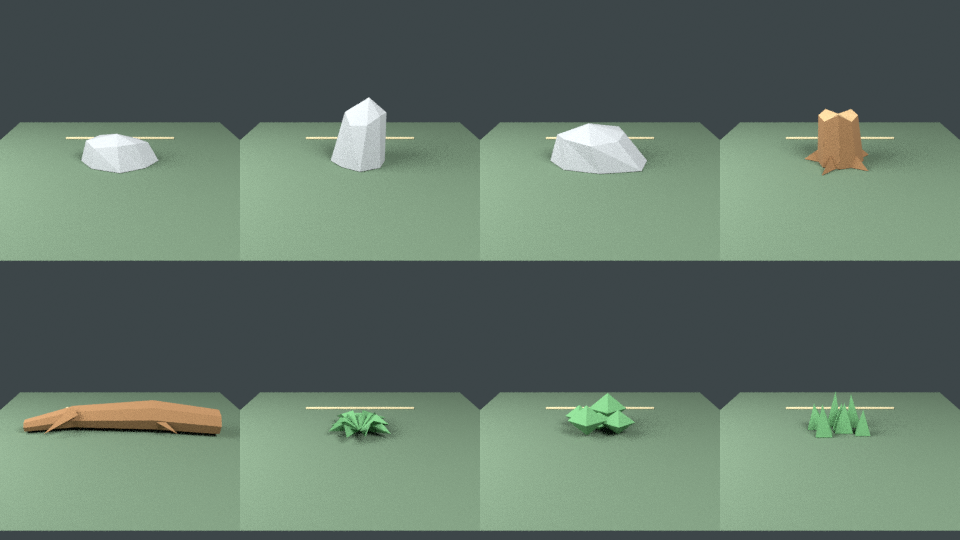
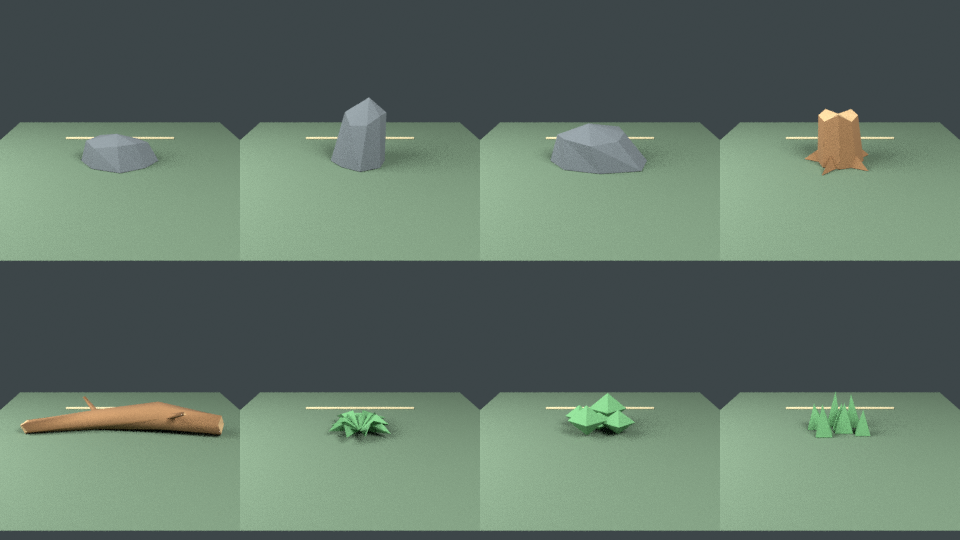
Refine forest floor deadwood and granite

diff --git a/contrib/workout-game-assets/blender/generate_forest_floor_props.py b/contrib/workout-game-assets/blender/generate_forest_floor_props.py
@@ -60,6 +60,9 @@ MAXIMUM_WIDTH_METERS = 2.20
 MAXIMUM_DEPTH_METERS = 0.80
 MAXIMUM_HEIGHT_METERS = 0.70
 DEADWOOD_MAXIMUM_HEIGHT_METERS = 0.34
+DEADWOOD_CROSS_SECTION_SIDES = 7
+DEADWOOD_BRANCH_STUB_COUNT = 2
+GRANITE_BASE_COLOR = (0.12, 0.14, 0.15, 1.0)
 EPSILON = 1.0e-7
 
 
@@ -166,27 +169,91 @@ def rooted_stump():
     return vertices, faces, material_indices
 
 
+def tapered_branch_stub(
+    vertices, faces, material_indices, start, end, base_radius, phase
+):
+    direction = tuple(end[axis] - start[axis] for axis in range(3))
+    length = math.sqrt(sum(component * component for component in direction))
+    axis = tuple(component / length for component in direction)
+    reference = (0.0, 1.0, 0.0)
+    first = (
+        axis[1] * reference[2] - axis[2] * reference[1],
+        axis[2] * reference[0] - axis[0] * reference[2],
+        axis[0] * reference[1] - axis[1] * reference[0],
+    )
+    first_length = math.sqrt(sum(component * component for component in first))
+    first = tuple(component / first_length for component in first)
+    second = (
+        axis[1] * first[2] - axis[2] * first[1],
+        axis[2] * first[0] - axis[0] * first[2],
+        axis[0] * first[1] - axis[1] * first[0],
+    )
+
+    base = len(vertices)
+    for center, radius, angle_offset in (
+        (start, base_radius, phase),
+        (end, base_radius * 0.48, phase + 0.31),
+    ):
+        for side in range(3):
+            angle = angle_offset + 2.0 * math.pi * side / 3.0
+            uneven = 1.0 + 0.10 * math.sin(phase * 2.3 + side * 1.7)
+            vertices.append(tuple(
+                center[axis_index] + radius * uneven * (
+                    math.cos(angle) * first[axis_index]
+                    + math.sin(angle) * second[axis_index]
+                )
+                for axis_index in range(3)
+            ))
+    for side in range(3):
+        following = (side + 1) % 3
+        add_face(faces, material_indices,
+                 (base + side, base + 3 + side, base + 3 + following), 0)
+        add_face(faces, material_indices,
+                 (base + side, base + 3 + following, base + following), 0)
+    add_face(faces, material_indices, (base, base + 2, base + 1), 0)
+    add_face(faces, material_indices, (base + 3, base + 4, base + 5), 1)
+
+
 def fallen_deadwood():
     vertices = []
     faces = []
     material_indices = []
-    sides = 8
+    sides = DEADWOOD_CROSS_SECTION_SIDES
     rings = (
-        (-0.98, 0.130, -0.090, 0.130),
-        (-0.34, 0.160, 0.035, 0.160),
-        (0.48, 0.130, 0.065, 0.120),
-        (0.97, 0.070, -0.040, 0.065),
+        (-0.97, 0.105, -0.090, 0.105, 0.125, -0.18),
+        (-0.40, 0.145, 0.025, 0.142, 0.145, 0.05),
+        (0.25, 0.105, 0.082, 0.103, 0.120, 0.32),
+        (0.94, 0.075, -0.045, 0.072, 0.083, 0.51),
+    )
+    broken_offsets = (
+        (-0.050, 0.018, -0.022, 0.040, -0.032, 0.011, -0.015),
+        (0.031, -0.043, 0.014, -0.020, 0.048, -0.009, 0.022),
     )
     starts = []
-    for x_value, center_y, center_z, radius in rings:
+    for ring_index, (
+        x_value, center_y, center_z, radius_y, radius_z, twist
+    ) in enumerate(rings):
         starts.append(len(vertices))
+        ring_vertices = []
         for side in range(sides):
-            angle = 2.0 * math.pi * side / sides
-            vertices.append((
-                x_value,
-                center_y + radius * math.sin(angle),
-                center_z + radius * math.cos(angle),
+            angle = 2.0 * math.pi * side / sides - math.pi / 2.0 + twist
+            radial_y = 1.0 + 0.065 * math.sin(ring_index * 1.7 + side * 2.1)
+            radial_z = 1.0 + 0.080 * math.cos(ring_index * 1.3 + side * 1.9)
+            x_offset = 0.009 * math.sin(ring_index * 1.4 + side * 1.6)
+            if ring_index == 0:
+                x_offset += broken_offsets[0][side]
+            elif ring_index == len(rings) - 1:
+                x_offset += broken_offsets[1][side]
+            ring_vertices.append((
+                x_value + x_offset,
+                center_y + radius_y * radial_y * math.sin(angle),
+                center_z + radius_z * radial_z * math.cos(angle),
             ))
+        ring_ground = min(vertex[1] for vertex in ring_vertices)
+        vertices.extend(
+            (vertex[0], vertex[1] - ring_ground, vertex[2])
+            for vertex in ring_vertices
+        )
     for first, second in zip(starts, starts[1:]):
         for side in range(sides):
             following = (side + 1) % sides
@@ -194,8 +261,10 @@ def fallen_deadwood():
                      (first + side, second + side, second + following), 0)
             add_face(faces, material_indices,
                      (first + side, second + following, first + following), 0)
-    for ring_index, center in ((0, (-0.98, 0.130, -0.090)),
-                               (3, (0.97, 0.070, -0.040))):
+    for ring_index, center in (
+        (0, (-1.045, 0.105, -0.090)),
+        (3, (1.025, 0.075, -0.045)),
+    ):
         center_index = len(vertices)
         vertices.append(center)
         start = starts[ring_index]
@@ -206,17 +275,18 @@ def fallen_deadwood():
                 order = (center_index, start + following, start + side)
             add_face(faces, material_indices, order, 1)
 
-    for base_x, direction in ((-0.30, -1.0), (0.48, 1.0)):
-        base = len(vertices)
-        vertices.extend((
-            (base_x - 0.06, 0.20, -0.08),
-            (base_x + 0.06, 0.19, -0.06),
-            (base_x, 0.28, -0.02),
-            (base_x + direction * 0.26, 0.055, -0.22),
-        ))
-        for indices in ((0, 1, 2), (0, 3, 1), (1, 3, 2), (2, 3, 0)):
-            add_face(faces, material_indices,
-                     tuple(base + index for index in indices), 0)
+    branches = (
+        ((-0.48, 0.175, -0.075), (-0.60, 0.285, -0.285), 0.040, 0.20),
+        ((0.24, 0.145, 0.105), (0.40, 0.275, 0.300), 0.038, 0.95),
+    )
+    for branch in branches:
+        tapered_branch_stub(vertices, faces, material_indices, *branch)
+
+    ground_offset = min(vertex[1] for vertex in vertices)
+    vertices = [
+        (vertex[0], vertex[1] - ground_offset, vertex[2])
+        for vertex in vertices
+    ]
     return vertices, faces, material_indices
 
 
@@ -341,7 +411,9 @@ def create_mesh(root, name, geometry, materials, material_slots, properties):
     assign_uv0(mesh)
     for polygon, material_index in zip(mesh.polygons, material_indices):
         polygon.material_index = material_index
-        polygon.use_smooth = False
+        polygon.use_smooth = (
+            name == "GEO_DeadwoodFallen_LOD0" and material_index == 0
+        )
     result = bpy.data.objects.new(name=name, object_data=mesh)
     bpy.context.collection.objects.link(result)
     result.parent = root
@@ -374,7 +446,7 @@ def build_scene():
 
     materials = {
         MATERIAL_NAMES[0]: make_material(MATERIAL_NAMES[0],
-                                         (0.34, 0.36, 0.37, 1.0)),
+                                         GRANITE_BASE_COLOR),
         MATERIAL_NAMES[1]: make_material(MATERIAL_NAMES[1],
                                          (0.25, 0.14, 0.065, 1.0)),
         MATERIAL_NAMES[2]: make_material(MATERIAL_NAMES[2],
@@ -398,6 +470,8 @@ def build_scene():
         VARIANT_NAMES[4]: (fallen_deadwood(),
                            (MATERIAL_NAMES[1], MATERIAL_NAMES[2]),
                            {"silhouette": "crooked-tapered-deadwood",
+                            "cross_section_sides": DEADWOOD_CROSS_SECTION_SIDES,
+                            "branch_stub_count": DEADWOOD_BRANCH_STUB_COUNT,
                             "placement_role": "scenery-only",
                             "collision_role": "none",
                             "feature_role": "none"}),
@@ -494,6 +568,24 @@ def self_check(root):
     deadwood_bounds = canonical_bounds(objects["GEO_DeadwoodFallen_LOD0"])
     if deadwood_bounds[1][1] > DEADWOOD_MAXIMUM_HEIGHT_METERS + EPSILON:
         raise RuntimeError("Decorative deadwood exceeds non-feature height")
+    deadwood = objects["GEO_DeadwoodFallen_LOD0"]
+    if len(deadwood.data.vertices) != 42:
+        raise RuntimeError("Decorative deadwood structure changed")
+    deadwood_material_counts = [
+        sum(polygon.material_index == index for polygon in deadwood.data.polygons)
+        for index in range(2)
+    ]
+    if deadwood_material_counts != [56, 16]:
+        raise RuntimeError("Decorative deadwood material topology changed")
+    if deadwood.get("cross_section_sides") not in {6, 7, 8} \
+            or deadwood.get("branch_stub_count") != 2:
+        raise RuntimeError("Decorative deadwood organic silhouette changed")
+    granite = bpy.data.materials[MATERIAL_NAMES[0]].diffuse_color
+    granite_luminance = (
+        0.2126 * granite[0] + 0.7152 * granite[1] + 0.0722 * granite[2]
+    )
+    if not 0.10 <= granite_luminance <= 0.18 or granite[2] - granite[0] < 0.02:
+        raise RuntimeError("Granite is outside the cool mid-grey contract")
     if len({material.name for material in bpy.data.materials}) != 4:
         raise RuntimeError("Forest-floor shared material inventory changed")
     if total_triangles > MAXIMUM_TRIANGLES:

diff --git a/unittests/Build/workoutGameAssets/testWorkoutGameAssets.py b/unittests/Build/workoutGameAssets/testWorkoutGameAssets.py
@@ -109,6 +109,43 @@ def sha256(path: Path) -> str:
     return hashlib.sha256(path.read_bytes()).hexdigest()
 
 
+def glb_accessor_values(path: Path, document: dict, accessor_index: int) -> list:
+    """Decode the uncompressed scalar/vector accessors used by authored GLBs."""
+    data = path.read_bytes()
+    offset = 12
+    binary = None
+    while offset < len(data):
+        chunk_length, chunk_type = struct.unpack_from("<II", data, offset)
+        offset += 8
+        chunk = data[offset:offset + chunk_length]
+        offset += chunk_length
+        if chunk_type == assets.GLB_BINARY_CHUNK:
+            binary = chunk
+    if binary is None:
+        raise AssertionError("GLB has no binary payload")
+
+    accessor = document["accessors"][accessor_index]
+    view = document["bufferViews"][accessor["bufferView"]]
+    component_formats = {
+        5120: "b", 5121: "B", 5122: "h", 5123: "H",
+        5125: "I", 5126: "f",
+    }
+    component_counts = {
+        "SCALAR": 1, "VEC2": 2, "VEC3": 3, "VEC4": 4,
+    }
+    component_count = component_counts[accessor["type"]]
+    value_format = "<" + (
+        component_formats[accessor["componentType"]] * component_count
+    )
+    value_size = struct.calcsize(value_format)
+    stride = view.get("byteStride", value_size)
+    start = view.get("byteOffset", 0) + accessor.get("byteOffset", 0)
+    return [
+        struct.unpack_from(value_format, binary, start + index * stride)
+        for index in range(accessor["count"])
+    ]
+
+
 class AssetFixture:
     def __init__(self) -> None:
         self.temporary = tempfile.TemporaryDirectory(prefix="gc-workout-assets-")
@@ -541,6 +578,66 @@ class TestWorkoutGameAssets(unittest.TestCase):
         self.assertNotIn(
             "runtime", {entry["purpose"] for entry in manifest["files"]}
         )
+
+    def test_forest_floor_deadwood_is_an_irregular_branched_log(self) -> None:
+        document, _ = assets.read_glb(FOREST_FLOOR_GLB_PATH)
+        nodes = {node["name"]: node for node in document["nodes"]}
+        node = nodes["GEO_DeadwoodFallen_LOD0"]
+        extras = node["extras"]
+        self.assertEqual(extras["cross_section_sides"], 7)
+        self.assertEqual(extras["branch_stub_count"], 2)
+        self.assertEqual(extras["placement_role"], "scenery-only")
+        self.assertEqual(extras["collision_role"], "none")
+        self.assertEqual(extras["feature_role"], "none")
+
+        mesh = document["meshes"][node["mesh"]]
+        primitive_triangles = [
+            document["accessors"][primitive["indices"]]["count"] // 3
+            for primitive in mesh["primitives"]
+        ]
+        # A seven-sided four-ring trunk contributes 42 bark triangles. Two
+        # tapered triangular branch stubs add 14 bark triangles, while their
+        # broken tips join the 14 trunk-end triangles in the end-grain pass.
+        self.assertEqual(primitive_triangles, [56, 16])
+
+        positions = glb_accessor_values(
+            FOREST_FLOOR_GLB_PATH,
+            document,
+            mesh["primitives"][0]["attributes"]["POSITION"],
+        )
+        unique_positions = {tuple(round(value, 5) for value in p) for p in positions}
+        self.assertEqual(len(unique_positions), 40)
+        self.assertGreaterEqual(len({p[0] for p in unique_positions}), 12)
+        self.assertGreater(max(p[2] for p in unique_positions)
+                           - min(p[2] for p in unique_positions), 0.55)
+
+        end_positions = glb_accessor_values(
+            FOREST_FLOOR_GLB_PATH,
+            document,
+            mesh["primitives"][1]["attributes"]["POSITION"],
+        )
+        unique_ends = {tuple(round(value, 5) for value in p) for p in end_positions}
+        self.assertEqual(len(unique_ends), 22)
+        left = sorted(unique_ends)[:8]
+        right = sorted(unique_ends)[-8:]
+        self.assertGreater(max(p[0] for p in left) - min(p[0] for p in left), 0.04)
+        self.assertGreater(max(p[0] for p in right) - min(p[0] for p in right), 0.04)
+
+    def test_forest_floor_granite_is_cool_mid_grey(self) -> None:
+        document, _ = assets.read_glb(FOREST_FLOOR_GLB_PATH)
+        material = next(
+            item for item in document["materials"]
+            if item["name"] == "MAT_ForestGranite"
+        )
+        red, green, blue, alpha = material[
+            "pbrMetallicRoughness"
+        ]["baseColorFactor"]
+        luminance = 0.2126 * red + 0.7152 * green + 0.0722 * blue
+        self.assertGreaterEqual(luminance, 0.10)
+        self.assertLessEqual(luminance, 0.18)
+        self.assertGreaterEqual(blue - red, 0.02)
+        self.assertLessEqual(max(red, green, blue), 0.18)
+        self.assertEqual(alpha, 1.0)
 
     def test_forest_floor_audits_use_fixed_camera_scale_and_distinct_angles(self) -> None:
         audit = assets.load_json_file(FOREST_FLOOR_AUDIT_PATH)

diff --git a/contrib/workout-game-assets/blender/README.md b/contrib/workout-game-assets/blender/README.md
@@ -19,15 +19,19 @@ assets.
   fern, bilberry and heather-like understory forms use 20, 40 and 42.
 - Every variant is a separately instancing-ready mesh with an applied
   transform, UV0, a named base pivot at the origin and exact ground contact at
-  canonical `Y = 0`. The complete source kit is 320 triangles and 39,236 bytes.
+  canonical `Y = 0`. The complete source kit is 320 triangles and 38,892 bytes.
 - Four opaque shared materials cover granite, bark, cut end grain and
   understory. Rocks and shrubs use one material primitive each; stump and
   deadwood use two. There is no embedded texture, external URI, animation,
   collision or physics authority.
-- The crooked 1.95-metre deadwood is only 0.32 metres high and explicitly records
-  `scenery-only`, `collision_role=none` and `feature_role=none`. It is not the
-  taller trail-spanning `FT-02` obstacle and may only be placed off trail in a
-  later integration task.
+- The granite material is a cool restrained mid-grey; flat-shaded irregular
+  facets distinguish the three rock silhouettes without another material pass.
+- The crooked 2.07-metre deadwood has varying seven-sided cross-sections, two
+  tapered branch stubs and uneven broken ends. It rests on several ground
+  contacts, is only 0.302 metres high and explicitly records `scenery-only`,
+  `collision_role=none` and `feature_role=none`. It is not the taller
+  trail-spanning `FT-02` obstacle and may only be placed off trail in a later
+  integration task.
 - Generated geometry and audit images are offered as project-generated
   `CC0-1.0` output; the two Python generators remain part of GoldenCheetah's
   GPL source. No external model, texture, image, scan or AI input is used.
